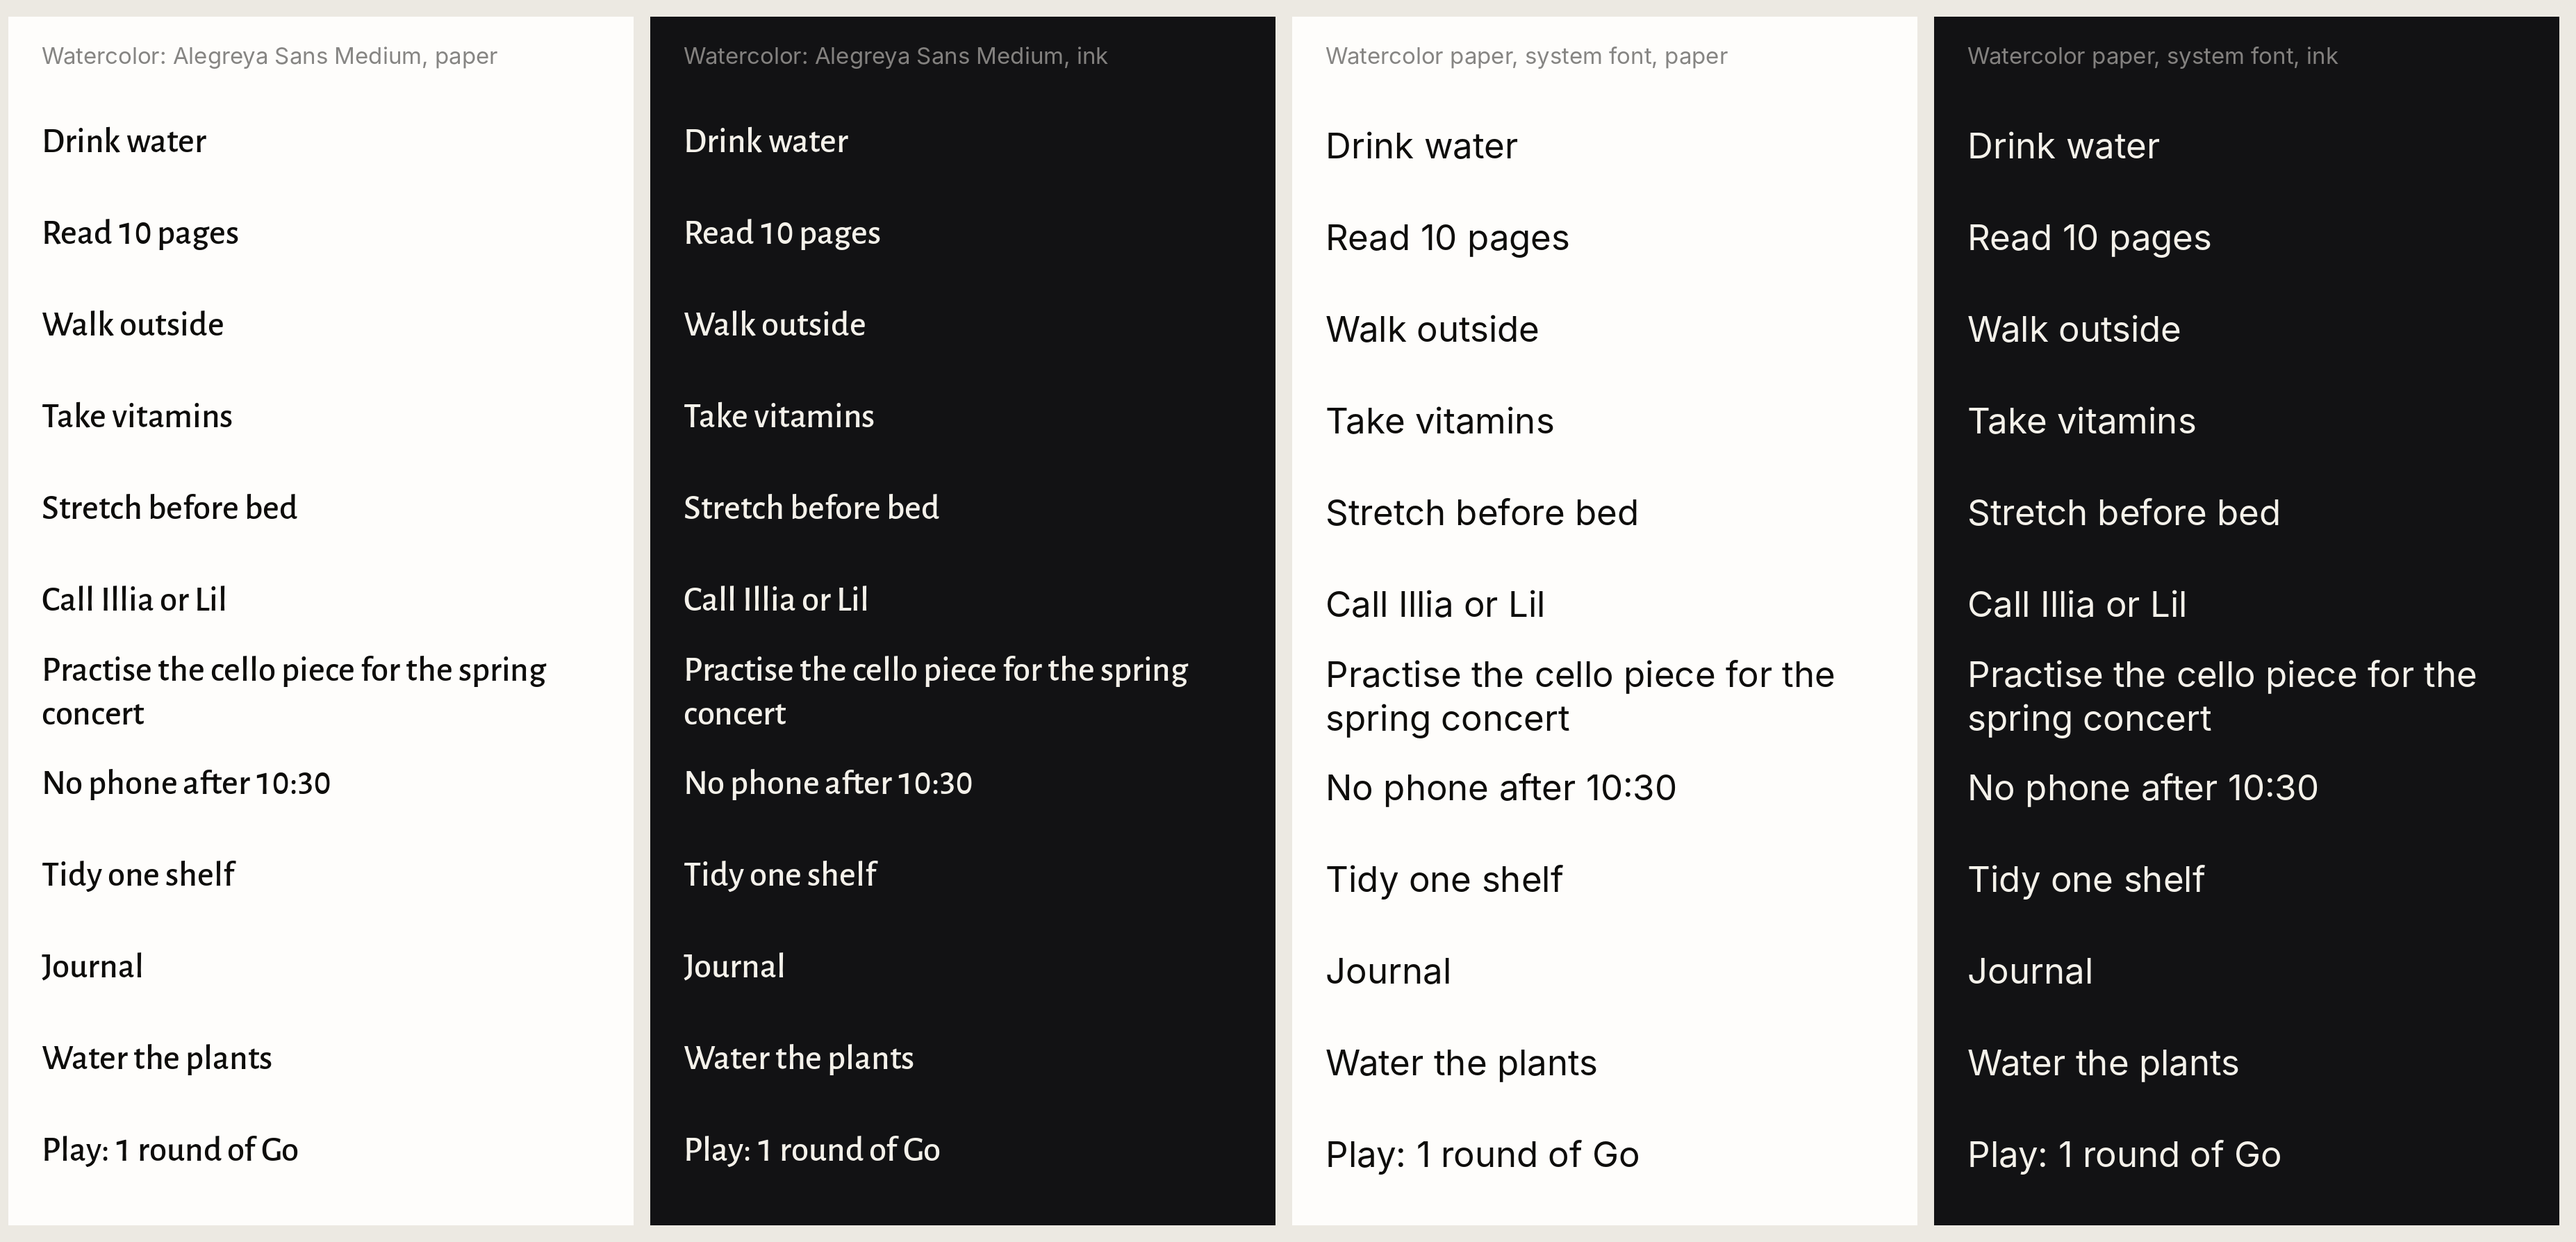
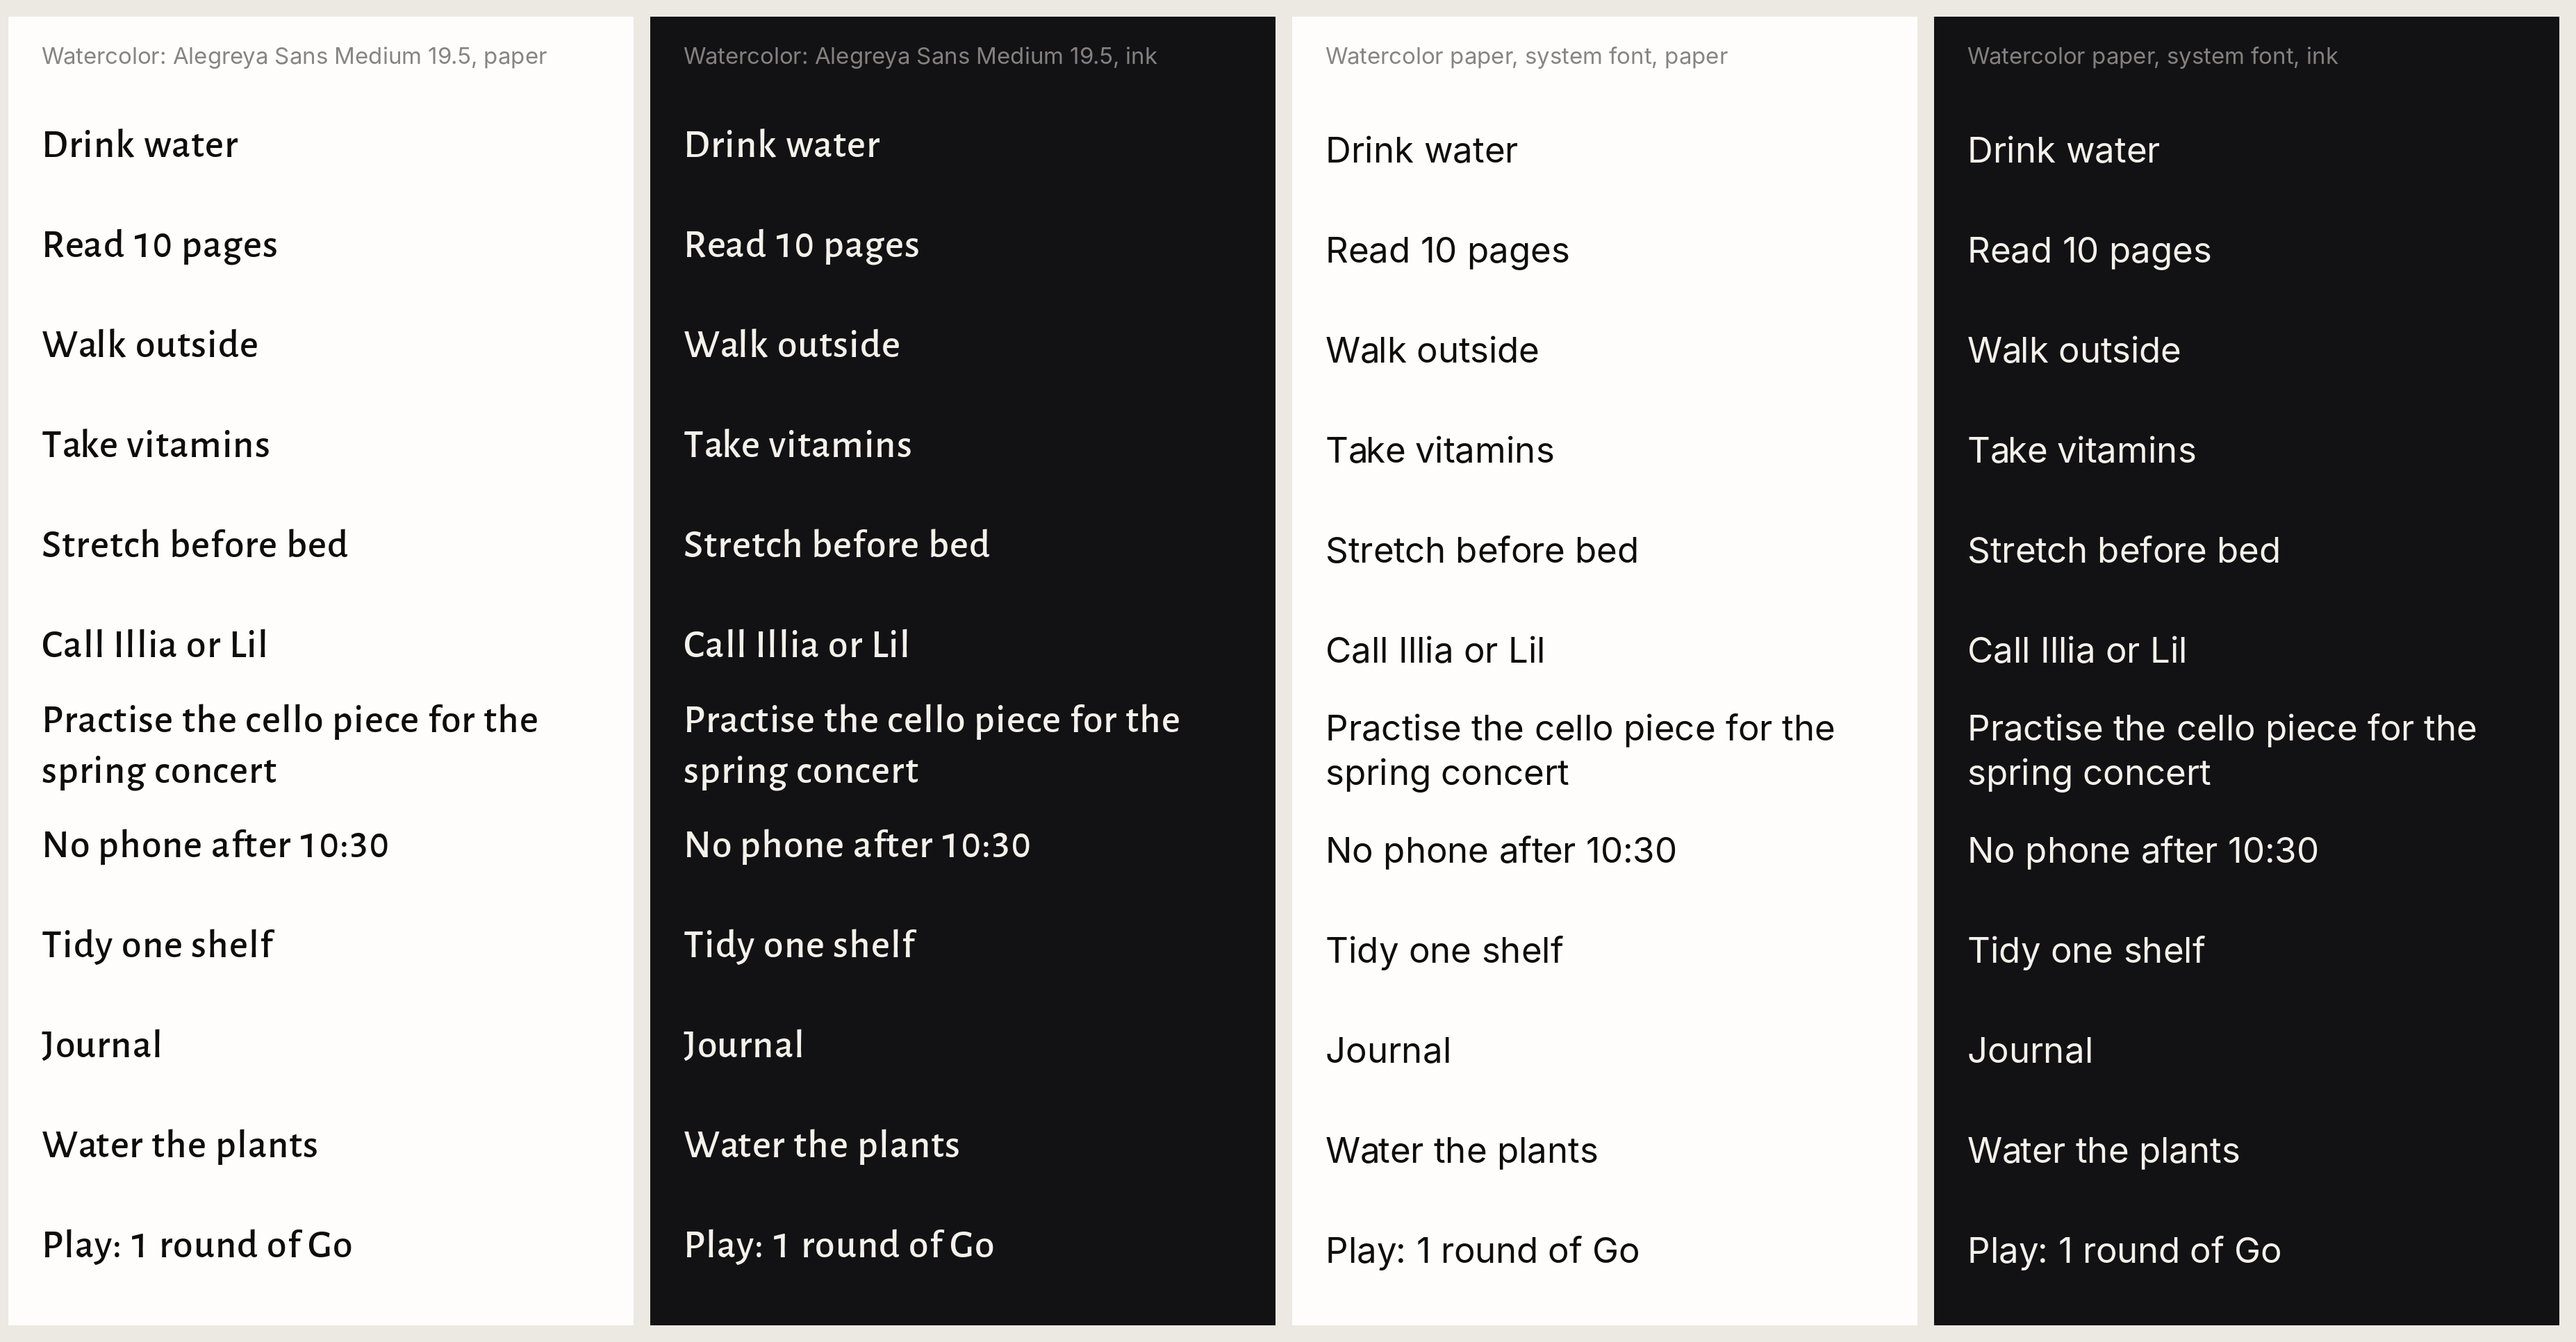
Step 5 gate, round two: Watercolor names at 19.5 points with wider spacing
Claude-Session: https://claude.ai/code/session_012NdevCAvT4U8qS7nMJ64YM

diff --git a/tools/marks/twelve_names.py b/tools/marks/twelve_names.py
@@ -24,20 +24,26 @@ def hexrgb(h): return tuple(int(h[i:i + 2], 16) for i in (1, 3, 5))
 
 def panel(style, kind, ap, title):
     t = TOK["styles"][style][ap]; paper, text = hexrgb(t["paper"]), hexrgb(t["text"])
-    W, row = 300, 44; im = Image.new("RGB", (W * Q, (40 + row * len(NAMES) + 12) * Q), paper); d = ImageDraw.Draw(im)
+    W, row = 300, 48; im = Image.new("RGB", (W * Q, (40 + row * len(NAMES) + 12) * Q), paper); d = ImageDraw.Draw(im)
     lab, _ = font("system", 11 * Q); d.text((16 * Q, 12 * Q), title, font=lab, fill=tuple((p + x) // 2 for p, x in zip(paper, text)))
-    f, feats = font(kind, 17 * Q); kw = {"features": feats} if RAQM and feats else {}
+    size, track, wordx = (19.5, 0.02, 1.25) if kind == "watercolor" else (17, 0, 1)      # Alegreya's lowercase is small: 19.5 points matches the system font's at 17
+    f, feats = font(kind, round(size * Q)); kw = {"features": feats} if RAQM and feats else {}
+    def length(t): return sum(f.getlength(w, **kw) + len(w) * track * size * Q for w in t.split()) + (len(t.split()) - 1) * f.getlength(" ") * wordx
+    def draw(x, y, t):
+        for w in t.split():
+            for i, ch in enumerate(w): d.text((x + f.getlength(w[:i], **kw) + i * track * size * Q, y), ch, font=f, fill=text, **kw)
+            x += f.getlength(w, **kw) + len(w) * track * size * Q + f.getlength(" ") * wordx
     for i, n in enumerate(NAMES):
         words, lines, cur = n.split(), [], ""
         for w in words:
-            if cur and f.getlength(cur + " " + w) > (W - 32) * Q: lines.append(cur); cur = w
+            if cur and length(cur + " " + w) > (W - 32) * Q: lines.append(cur); cur = w
             else: cur = (cur + " " + w).strip()
-        lines.append(cur); y = 40 + i * row + (row - len(lines) * 21) / 2
-        for k, l in enumerate(lines): d.text((16 * Q, (y + k * 21) * Q), l, font=f, fill=text, **kw)
+        lines.append(cur); lh = size * 1.25; y = 40 + i * row + (row - len(lines) * lh) / 2
+        for k, l in enumerate(lines): draw(16 * Q, (y + k * lh) * Q, l)
     return im
 
 def main(out):
-    ps = [panel(s, k, ap, f"{lbl}, {ap}") for s, k, lbl in (("pencil", "pencil", "Pencil: Shantell Sans 380"), ("pencil", "system", "Pencil paper, system font"), ("watercolor", "watercolor", "Watercolor: Alegreya Sans Medium"), ("watercolor", "system", "Watercolor paper, system font")) for ap in ("paper", "ink")]
+    ps = [panel(s, k, ap, f"{lbl}, {ap}") for s, k, lbl in (("pencil", "pencil", "Pencil: Shantell Sans 380"), ("pencil", "system", "Pencil paper, system font"), ("watercolor", "watercolor", "Watercolor: Alegreya Sans Medium 19.5"), ("watercolor", "system", "Watercolor paper, system font")) for ap in ("paper", "ink")]
     pad = 24; sheet = Image.new("RGB", (sum(p.width for p in ps) + pad * (len(ps) + 1), ps[0].height + 2 * pad), (236, 233, 226)); x = pad
     for p in ps: sheet.paste(p, (x, pad)); x += p.width + pad
     sheet.save(out); print(sheet.size, "font features applied:", RAQM)
